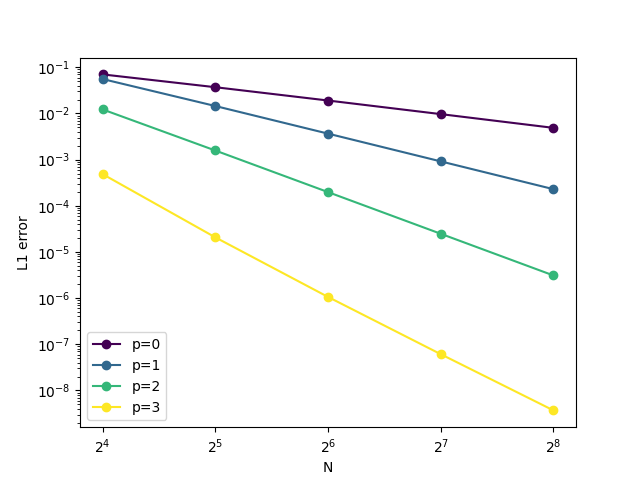
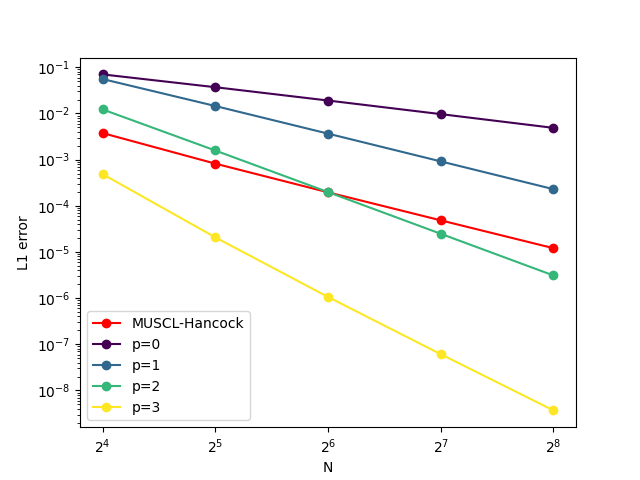
MUSCL-Hancock SED confirmed

diff --git a/superfv/finite_volume_solver.py b/superfv/finite_volume_solver.py
@@ -834,17 +834,11 @@ class FiniteVolumeSolver(ExplicitODESolver, ABC):
         arrays.add("H", np.empty((nvars, nx, ny, nz + 1)))
 
         # initialize workspace arrays
-        _nx_, _ny_, _nz_ = mesh._nx_, mesh._ny_, mesh._nz_
         max_nodes = self.nodes_per_face(scheme)
         max_ninterps = 2 * max_nodes
-        SED_buffer_cost = {1: 4, 2: 6, 3: 7}[mesh.ndim]
-        base_buffer_size = SED_buffer_cost + 1
-        MOOD_buffer_size = SED_buffer_cost + 4
-        MUSCL_buffer_size = SED_buffer_cost + 6
-        buffer_size = max(base_buffer_size, max_nodes)
-        if self.MOOD or isinstance(scheme, musclInterpolationScheme):
-            buffer_size = max(buffer_size, MOOD_buffer_size, MUSCL_buffer_size)
+        buffer_size = self._compute_buffer_size(scheme)
 
+        _nx_, _ny_, _nz_ = mesh._nx_, mesh._ny_, mesh._nz_
         arrays.add("_u_", np.empty((nvars, _nx_, _ny_, _nz_)))
         arrays.add("_ucc_", np.empty((nvars, _nx_, _ny_, _nz_, 1)))
         arrays.add("_wcc_", np.empty((nvars, _nx_, _ny_, _nz_, 1)))
@@ -912,6 +906,23 @@ class FiniteVolumeSolver(ExplicitODESolver, ABC):
         if getattr(self.base_scheme.limiter_config, "adaptive_dt", False):
             self._dt_criterion = self.adaptive_dt_criterion
             self._compute_revised_dt = self.adaptive_dt_revision
+
+    def _compute_buffer_size(self, scheme: InterpolationScheme) -> int:
+        mesh = self.mesh
+        max_nodes = self.nodes_per_face(scheme)
+
+        SED_buffer_cost = {1: 4, 2: 6, 3: 7}[mesh.ndim]
+        base_buffer_size = SED_buffer_cost + 1
+
+        buffer_size = max(base_buffer_size, max_nodes)
+
+        MOOD_buffer_size = SED_buffer_cost + 4
+        MUSCL_buffer_size = SED_buffer_cost + 10
+
+        if self.MOOD or isinstance(scheme, musclInterpolationScheme):
+            buffer_size = max((buffer_size, MOOD_buffer_size, MUSCL_buffer_size))
+
+        return buffer_size
 
     def nodes_per_face(self, scheme: InterpolationScheme) -> int:
         """ """
@@ -1818,7 +1829,7 @@ class FiniteVolumeSolver(ExplicitODESolver, ABC):
                 out=slope_arr,
                 buffer=buffer,
                 limiter=scheme.limiter_config.limiter,
-                SED=False,
+                SED=scheme.limiter_config.SED,
             )
 
         # evolve the cell-center by 1/2 dt

diff --git a/benchmarks/advection_error_convergence/AdvectionSolver/__main__.py b/benchmarks/advection_error_convergence/AdvectionSolver/__main__.py
@@ -13,15 +13,16 @@ from superfv.tools.norms import l1_norm
 OUTPUT_NAME = "benchmarks/advection_error_convergence/AdvectionSolver/" + "plot.png"
 DIMS = "x"
 N_LIST = [16, 32, 64, 128, 256]
-P_LIST = [0, 1, 2, 3]
+P_LIST = [-1, 0, 1, 2, 3]
 OTHER_INPUTS = dict(
-    interpolation_scheme="transverse",
+    GL=False,
     cupy=False,
     ZS=True,
     adaptive_dt=False,
     SED=True,
     lazy_primitives=False,
 )
+MUSCL_INPUTS = dict(MUSCL=True, MUSCL_limiter="moncen", SED=True)
 
 # remove old output
 if os.path.exists(OUTPUT_NAME):
@@ -31,7 +32,7 @@ if os.path.exists(OUTPUT_NAME):
 data = []
 for N, p in product(N_LIST, P_LIST):
     # print status
-    print(f"Running N={N}, p={p}")
+    print(f"Running N={N}, MUSCL-Hancock" if p == -1 else f"Running N={N}, p={p}")
 
     def analytical_solution(idx, x, y, z, t, xp):
         return initial_conditions.sinus(
@@ -50,10 +51,13 @@ for N, p in product(N_LIST, P_LIST):
         nx=N if "x" in DIMS else 1,
         ny=N if "y" in DIMS else 1,
         nz=N if "z" in DIMS else 1,
-        p=p,
-        **OTHER_INPUTS,
+        p=1 if p == -1 else p,
+        **(MUSCL_INPUTS if p == -1 else OTHER_INPUTS),
     )
-    solver.run(1.0, progress_bar=False)
+    if p == -1:
+        solver.musclhancock(1.0, verbose=False)
+    else:
+        solver.run(1.0, verbose=False)
 
     # measure error
     idx = solver.variable_index_map
@@ -74,10 +78,9 @@ for p in P_LIST:
     ax.plot(
         df_p["N"],
         df_p["error"],
-        label=f"p={p}",
+        label="MUSCL-Hancock" if p == -1 else f"p={p}",
         marker="o",
-        linestyle="-",
-        color=cmap(p / max(P_LIST)),
+        color="red" if p == -1 else cmap((p) / max(P_LIST)),
     )
 ax.set_xscale("log", base=2)
 ax.set_yscale("log")

diff --git a/TODO.md b/TODO.md
@@ -38,9 +38,9 @@ changes:
 - [x] add: `P` arg to slotted disk IC, fix: slotted disk test
 - [x] automatically set `lazy_primitives=True` if `p<2`
 - [x] make lazy_primitives default for advection solver
+- [x] add MUSCL-Hancock option for different slope limiters and SED
 
 to-do list:
-- [ ] add MUSCL-Hancock option for different slope limiters and SED
 - [ ] add MUSCL-Hancock option for conservative variables
 - [ ] troubled cell detection uses the same u_old for each substep. is this correct?
 - [ ] PAD asymmetry for 2D square
